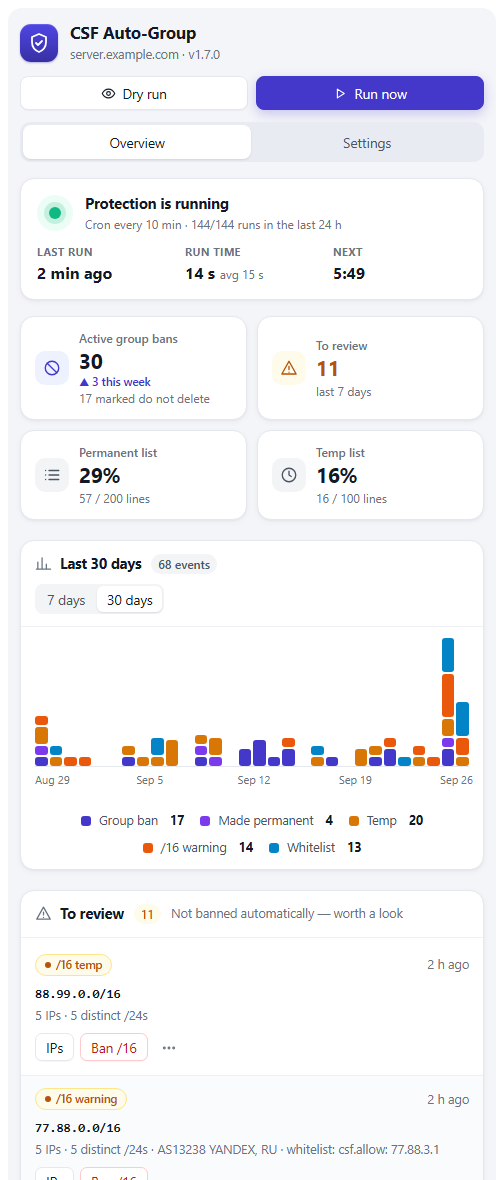
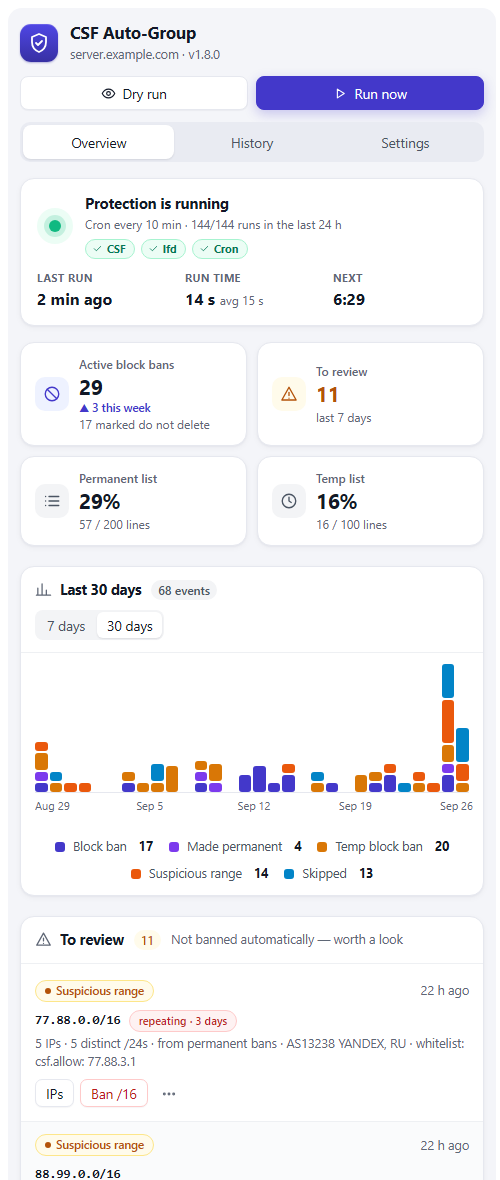
yeni özellikler, terim açıklaması (tekil · blok /24 · ağ /16 · sağlayıcı ASN) ve yeni ekran görüntüleri eklendi.

diff --git a/whm/assets/ag.js b/whm/assets/ag.js
@@ -97,7 +97,7 @@
       l_perm_cover: 'Kalıcı (blok)', l_temp: 'Geçici', l_nolookup: 'Sahip ve hostname sorguları kapalı (LOOKUP=0).',
       l_abuse: 'AbuseIPDB', l_bgp: 'bgp.he.net', l_copy: 'Kopyala', bad_ip: 'Geçerli bir IPv4 adresi yazın.',
       foot: 'CSF Auto-Group v{0} · {1} olarak oturum açıldı',
-      tab_overview: 'Genel bakış', tab_settings: 'Ayarlar', tab_history: 'Geçmiş', show_less: 'Daha az göster', s_cfglog: 'Ayar geçmişi', from_log: 'günlükten', sn_server: 'Sunucu', sn_server_h: 'CSF\'in liste sınırları ve eklentinin kullandığı araçlar.', st_deps: 'Sunucu gereksinimleri', st_deps_h: 'Eklentinin kullandığı araçlar ve eksik olduğunda ne olduğu.', dep_ok: 'Var', dep_missing: 'Yok', dep_warn: 'Eksik', dep_opt: 'isteğe bağlı', dep_csf: 'Güvenlik duvarı; banları o uygular.', dep_csf_x: 'Zorunlu: CSF olmadan hiçbir şey çalışmaz.', dep_crontab: 'Turları zamanında çalıştırır.', dep_crontab_x: 'Turlar otomatik çalışmaz; zamanlama Ayarlar\'dan değiştirilemez.', dep_mail: 'Uyarı mailleri ve haftalık özet.', dep_mail_x: 'Uyarı mailleri ve haftalık özet gönderilmez.', dep_dns: 'Sahip ve hostname sorguları.', dep_dns_x: 'Sahip ve hostname bilgisi olmaz; CC_IGNORE / CC_ALLOW ve csf.rignore kontrol edilemez, bu listelere dayanan bloklar banlanmaz.', dep_logrotate: 'Günlük dosyasını döndürür.', dep_logrotate_x: 'Günlük, satır sınırıyla kesilir (yedek yöntem).', dep_logrotate_w: 'Kurulu ama ayar dosyası yok; günlük şimdilik satır sınırıyla kesiliyor. update.sh ya da install.sh ile yeniden kurun.', dep_flock: 'Aynı anda tek tur çalışmasını sağlar.', dep_flock_x: 'Üst üste binen turlara karşı koruma olmaz.', dep_timeout: 'Eklentinin çalıştırdığı komutlara zaman sınırı koyar.', dep_timeout_x: 'Takılan bir komut sayfayı bekletebilir.', dep_git: 'Arayüzden güncelleme.', dep_git_x: 'Güncelleme kontrolü ve Güncelle düğmesi çalışmaz.', dep_imunify: 'Sağlayıcılar kartındaki Imunify sekmesi.', dep_imunify_x: 'Imunify sekmesi görünmez; başka etkisi yok.', k_logfile: 'Günlük dosyası', log_rot: 'logrotate: {2} MB\'ı geçince döndürülür, son {3} arşiv saklanır · şu an {0} · {1} arşiv.', k_LOG_ROTATE_MB: 'Günlük boyutu (MB)', h_LOG_ROTATE_MB: 'Günlük bu boyutu geçince döndürülür (logrotate günde bir kontrol eder).', k_LOG_ROTATE_KEEP: 'Arşiv sayısı', h_LOG_ROTATE_KEEP: 'Döndürülen günlüklerden kaç tanesi sıkıştırılarak saklanır.', log_lines: 'Şu an {0} / {1} satır.', no_cfglog: 'Henüz ayar değişikliği yok.', ev_config: 'Ayar değişti', ev_test_mail: 'Test maili',
+      tab_overview: 'Genel bakış', tab_settings: 'Ayarlar', tab_history: 'Geçmiş', show_less: 'Daha az göster', s_cfglog: 'Ayar geçmişi', c_expire: 'Eski blok banı', c_auto_on: 'otomatik kaldırılır', c_auto_off: 'elle kaldırılır', hc_csf: 'CSF', hc_lfd: 'lfd', hc_cron: 'Cron', hc_csf_ok: 'Güvenlik duvarı kuralları yüklü', hc_csf_off: 'CSF devre dışı (csf.disable)', hc_csf_testing: 'CSF test modunda (TESTING = 1)', hc_csf_norules: 'CSF kuralları yüklü değil', hc_csf_unknown: 'Durum okunamadı (iptables yok)', hc_lfd_ok: 'lfd çalışıyor', hc_lfd_down: 'lfd çalışmıyor: yeni ban gelmez', hc_cron_ok: 'Turlar zamanında çalışıyor', hc_cron_late: 'Tur gecikti', sb_fw: 'Güvenlik duvarında sorun var', f_old: 'Eski', old_h: '{0} blok banı {1} günden eski.', old_auto: 'Otomatik kaldırma açık; sıradaki turda kaldırılacaklar.', old_manual: 'Otomatik kaldırma kapalı (Ayarlar → Saklama).', old_rm: 'Eskileri kaldır ({0})', m_exp_t: '{0} eski blok banı kaldırılsın mı?', m_exp_b: '{1} günden eski {0} blok banı csf.deny\'den kaldırılır (do not delete olanlar da). Bu bloklardan tekrar saldırı gelirse yeniden banlanırlar. csf.deny önce yedeklenir.', ev_expire: 'Eski blok kaldırıldı', exp_age: '{0} gün önce eklenmişti', rep_n: 'tekrar ediyor · {0} gün', k_BLOCK_EXPIRE_DAYS: 'Eski blok banı sınırı (gün)', h_BLOCK_EXPIRE_DAYS: 'Bu süreden eski blok banları Aktif blok banları tablosunda "Eski" filtresinde toplanır.', k_BLOCK_EXPIRE_AUTO: 'Eski blok banlarını otomatik kaldır', h_BLOCK_EXPIRE_AUTO: 'Açıksa her turda bu süreden eski blok banları kaldırılır ve mailde bildirilir. Elle eklenen banlara dokunulmaz.', from_log: 'günlükten', sn_server: 'Sunucu', sn_server_h: 'CSF\'in liste sınırları ve eklentinin kullandığı araçlar.', st_deps: 'Sunucu gereksinimleri', st_deps_h: 'Eklentinin kullandığı araçlar ve eksik olduğunda ne olduğu.', dep_ok: 'Var', dep_missing: 'Yok', dep_warn: 'Eksik', dep_opt: 'isteğe bağlı', dep_csf: 'Güvenlik duvarı; banları o uygular.', dep_csf_x: 'Zorunlu: CSF olmadan hiçbir şey çalışmaz.', dep_crontab: 'Turları zamanında çalıştırır.', dep_crontab_x: 'Turlar otomatik çalışmaz; zamanlama Ayarlar\'dan değiştirilemez.', dep_mail: 'Uyarı mailleri ve haftalık özet.', dep_mail_x: 'Uyarı mailleri ve haftalık özet gönderilmez.', dep_dns: 'Sahip ve hostname sorguları.', dep_dns_x: 'Sahip ve hostname bilgisi olmaz; CC_IGNORE / CC_ALLOW ve csf.rignore kontrol edilemez, bu listelere dayanan bloklar banlanmaz.', dep_logrotate: 'Günlük dosyasını döndürür.', dep_logrotate_x: 'Günlük, satır sınırıyla kesilir (yedek yöntem).', dep_logrotate_w: 'Kurulu ama ayar dosyası yok; günlük şimdilik satır sınırıyla kesiliyor. update.sh ya da install.sh ile yeniden kurun.', dep_flock: 'Aynı anda tek tur çalışmasını sağlar.', dep_flock_x: 'Üst üste binen turlara karşı koruma olmaz.', dep_timeout: 'Eklentinin çalıştırdığı komutlara zaman sınırı koyar.', dep_timeout_x: 'Takılan bir komut sayfayı bekletebilir.', dep_git: 'Arayüzden güncelleme.', dep_git_x: 'Güncelleme kontrolü ve Güncelle düğmesi çalışmaz.', dep_imunify: 'Sağlayıcılar kartındaki Imunify sekmesi.', dep_imunify_x: 'Imunify sekmesi görünmez; başka etkisi yok.', k_logfile: 'Günlük dosyası', log_rot: 'logrotate: {2} MB\'ı geçince döndürülür, son {3} arşiv saklanır · şu an {0} · {1} arşiv.', k_LOG_ROTATE_MB: 'Günlük boyutu (MB)', h_LOG_ROTATE_MB: 'Günlük bu boyutu geçince döndürülür (logrotate günde bir kontrol eder).', k_LOG_ROTATE_KEEP: 'Arşiv sayısı', h_LOG_ROTATE_KEEP: 'Döndürülen günlüklerden kaç tanesi sıkıştırılarak saklanır.', log_lines: 'Şu an {0} / {1} satır.', no_cfglog: 'Henüz ayar değişikliği yok.', ev_config: 'Ayar değişti', ev_test_mail: 'Test maili',
       st_notify: 'Bildirim', st_mail: 'Uyarı maili adresi', st_mail_h: 'Blok banları, şüpheli ağ uyarıları ve limit mailleri buraya gider. root@localhost, cPanel\'de sunucunun iletişim adresine yönlenir.',
       st_lang: 'Dil', st_lang_h: 'Log, mail ve bu panelin dili.', st_test: 'Test maili gönder', st_test_h: 'Kayıtlı adrese gönderilir.',
       st_test_dirty: 'Önce yeni adresi kaydedin.', st_thr: 'Eşikler', st_thr_h: 'Kaç tekil ban bir işlemi tetikler.',
@@ -189,7 +189,7 @@
       l_perm_cover: 'Permanent (block)', l_temp: 'Temp', l_nolookup: 'Owner and hostname lookups are off (LOOKUP=0).',
       l_abuse: 'AbuseIPDB', l_bgp: 'bgp.he.net', l_copy: 'Copy', bad_ip: 'Enter a valid IPv4 address.',
       foot: 'CSF Auto-Group v{0} · signed in as {1}',
-      tab_overview: 'Overview', tab_settings: 'Settings', tab_history: 'History', show_less: 'Show less', s_cfglog: 'Settings history', from_log: 'from the log', sn_server: 'Server', sn_server_h: 'CSF\'s list limits and the tools the plugin uses.', st_deps: 'Server requirements', st_deps_h: 'Tools the plugin uses and what happens when one is missing.', dep_ok: 'Found', dep_missing: 'Missing', dep_warn: 'Incomplete', dep_opt: 'optional', dep_csf: 'The firewall; it applies the bans.', dep_csf_x: 'Required: nothing works without CSF.', dep_crontab: 'Runs the job on schedule.', dep_crontab_x: 'Runs don\'t happen automatically; the schedule can\'t be changed from Settings.', dep_mail: 'Alert emails and the weekly summary.', dep_mail_x: 'No alert emails or weekly summary are sent.', dep_dns: 'Owner and hostname lookups.', dep_dns_x: 'No owner or hostname info; CC_IGNORE / CC_ALLOW and csf.rignore can\'t be checked, so blocks relying on them aren\'t banned.', dep_logrotate: 'Rotates the log file.', dep_logrotate_x: 'The log is trimmed by a line limit instead (fallback).', dep_logrotate_w: 'Installed, but our config file is missing; the log is trimmed by the line limit for now. Re-run update.sh or install.sh.', dep_flock: 'Makes sure only one run happens at a time.', dep_flock_x: 'No protection against overlapping runs.', dep_timeout: 'Puts a time limit on commands the plugin runs.', dep_timeout_x: 'A stuck command can keep the page waiting.', dep_git: 'Updating from the plugin.', dep_git_x: 'The update check and the Update button don\'t work.', dep_imunify: 'The Imunify tab in the providers card.', dep_imunify_x: 'The Imunify tab is hidden; nothing else is affected.', k_logfile: 'Log file', log_rot: 'logrotate: rotated past {2} MB, the last {3} archives are kept · now {0} · {1} archives.', k_LOG_ROTATE_MB: 'Log size (MB)', h_LOG_ROTATE_MB: 'The log is rotated once it grows past this size (logrotate checks daily).', k_LOG_ROTATE_KEEP: 'Archives kept', h_LOG_ROTATE_KEEP: 'How many rotated logs are kept, compressed.', log_lines: 'Now {0} / {1} lines.', no_cfglog: 'No settings changes yet.', ev_config: 'Settings changed', ev_test_mail: 'Test email',
+      tab_overview: 'Overview', tab_settings: 'Settings', tab_history: 'History', show_less: 'Show less', s_cfglog: 'Settings history', c_expire: 'Old block bans', c_auto_on: 'removed automatically', c_auto_off: 'removed manually', hc_csf: 'CSF', hc_lfd: 'lfd', hc_cron: 'Cron', hc_csf_ok: 'Firewall rules are loaded', hc_csf_off: 'CSF is disabled (csf.disable)', hc_csf_testing: 'CSF is in testing mode (TESTING = 1)', hc_csf_norules: 'CSF rules are not loaded', hc_csf_unknown: 'Status unknown (no iptables)', hc_lfd_ok: 'lfd is running', hc_lfd_down: 'lfd is not running: no new bans will arrive', hc_cron_ok: 'Runs happen on schedule', hc_cron_late: 'A run is overdue', sb_fw: 'There is a problem with the firewall', f_old: 'Old', old_h: '{0} block bans are older than {1} days.', old_auto: 'Automatic removal is on; they will be removed on the next run.', old_manual: 'Automatic removal is off (Settings → Retention).', old_rm: 'Remove old ones ({0})', m_exp_t: 'Remove {0} old block bans?', m_exp_b: '{0} block bans older than {1} days are removed from csf.deny (do not delete ones too). If attacks come from them again they are banned again. csf.deny is backed up first.', ev_expire: 'Old block removed', exp_age: 'added {0} days ago', rep_n: 'repeating · {0} days', k_BLOCK_EXPIRE_DAYS: 'Old block ban limit (days)', h_BLOCK_EXPIRE_DAYS: 'Block bans older than this are grouped under the "Old" filter in the active block bans table.', k_BLOCK_EXPIRE_AUTO: 'Remove old block bans automatically', h_BLOCK_EXPIRE_AUTO: 'When on, block bans older than this are removed on every run and reported by email. Manual bans are left alone.', from_log: 'from the log', sn_server: 'Server', sn_server_h: 'CSF\'s list limits and the tools the plugin uses.', st_deps: 'Server requirements', st_deps_h: 'Tools the plugin uses and what happens when one is missing.', dep_ok: 'Found', dep_missing: 'Missing', dep_warn: 'Incomplete', dep_opt: 'optional', dep_csf: 'The firewall; it applies the bans.', dep_csf_x: 'Required: nothing works without CSF.', dep_crontab: 'Runs the job on schedule.', dep_crontab_x: 'Runs don\'t happen automatically; the schedule can\'t be changed from Settings.', dep_mail: 'Alert emails and the weekly summary.', dep_mail_x: 'No alert emails or weekly summary are sent.', dep_dns: 'Owner and hostname lookups.', dep_dns_x: 'No owner or hostname info; CC_IGNORE / CC_ALLOW and csf.rignore can\'t be checked, so blocks relying on them aren\'t banned.', dep_logrotate: 'Rotates the log file.', dep_logrotate_x: 'The log is trimmed by a line limit instead (fallback).', dep_logrotate_w: 'Installed, but our config file is missing; the log is trimmed by the line limit for now. Re-run update.sh or install.sh.', dep_flock: 'Makes sure only one run happens at a time.', dep_flock_x: 'No protection against overlapping runs.', dep_timeout: 'Puts a time limit on commands the plugin runs.', dep_timeout_x: 'A stuck command can keep the page waiting.', dep_git: 'Updating from the plugin.', dep_git_x: 'The update check and the Update button don\'t work.', dep_imunify: 'The Imunify tab in the providers card.', dep_imunify_x: 'The Imunify tab is hidden; nothing else is affected.', k_logfile: 'Log file', log_rot: 'logrotate: rotated past {2} MB, the last {3} archives are kept · now {0} · {1} archives.', k_LOG_ROTATE_MB: 'Log size (MB)', h_LOG_ROTATE_MB: 'The log is rotated once it grows past this size (logrotate checks daily).', k_LOG_ROTATE_KEEP: 'Archives kept', h_LOG_ROTATE_KEEP: 'How many rotated logs are kept, compressed.', log_lines: 'Now {0} / {1} lines.', no_cfglog: 'No settings changes yet.', ev_config: 'Settings changed', ev_test_mail: 'Test email',
       st_notify: 'Notifications', st_mail: 'Alert email address', st_mail_h: 'Block bans, suspicious range warnings and limit emails go here. On cPanel, root@localhost is forwarded to the server contact address.',
       st_lang: 'Language', st_lang_h: 'Language of the log, emails and this panel.', st_test: 'Send test email', st_test_h: 'Sent to the saved address.',
       st_test_dirty: 'Save the new address first.', st_thr: 'Thresholds', st_thr_h: 'How many single bans trigger an action.',
@@ -387,14 +387,24 @@
     left = Math.max(0, left);
     return Math.floor(left / 60) + ':' + ('0' + (left % 60)).slice(-2);
   }
+  function healthChips(HL, late) {
+    function chip(name, cls, tip) { return '<span class="ag-hc ' + cls + '" title="' + esc(tip) + '">' + (cls === 'ok' ? IC.check : IC.alert) + esc(name) + '</span>'; }
+    var c = HL.csf || 'unknown', l = HL.lfd || 'down';
+    return '<div class="ag-hchips">' +
+      chip(t('hc_csf'), c === 'ok' ? 'ok' : c === 'testing' || c === 'unknown' ? 'warn' : 'bad', t('hc_csf_' + c)) +
+      chip(t('hc_lfd'), l === 'ok' ? 'ok' : 'bad', t('hc_lfd_' + l)) +
+      chip(t('hc_cron'), late ? 'bad' : 'ok', t(late ? 'hc_cron_late' : 'hc_cron_ok')) + '</div>';
+  }
   function statusBand() {
     var lr = S.last_run, run = S.running, late = !run && overdue(), iv = S.cron_interval || 0;
     var R = S.runs || {}, L = R.list || [], ds = L.map(function (x) { return x[1] || 0; });
     var avg = ds.length ? Math.round(ds.reduce(function (a, b) { return a + b; }, 0) / ds.length) : 0;
     var exp = iv > 0 && R.first ? Math.max(1, Math.round(Math.min(86400, nowSec() - R.first) / iv)) : 0;
     exp = Math.max(exp, R.n24 || 0);
-    var st = run ? 'run' : late ? 'bad' : 'ok';
-    var sub = late ? t('overdue', lr ? rel(lr.t) : '?', dur(iv))
+    var HL = S.health || {}, fwBad = HL.lfd === 'down' || HL.csf === 'off' || HL.csf === 'norules';
+    var st = run ? 'run' : (late || fwBad) ? 'bad' : 'ok';
+    var sub = fwBad && !run ? [HL.csf !== 'ok' && HL.csf !== 'unknown' ? t('hc_csf_' + HL.csf) : '', HL.lfd === 'down' ? t('hc_lfd_down') : ''].filter(Boolean).join(' · ')
+      : late ? t('overdue', lr ? rel(lr.t) : '?', dur(iv))
       : !lr ? t('sb_none') : [iv ? t('sb_every', dur(iv)) : '', exp ? t('sb_24', num(R.n24 || 0), num(exp)) : ''].filter(Boolean).join(' · ');
     var sorted = ds.slice().sort(function (a, b) { return a - b; }), med = sorted.length ? sorted[Math.floor(sorted.length / 2)] : 0;
     var mx = Math.max.apply(null, ds.concat([1]));
@@ -406,7 +416,7 @@
       return '<div class="ag-band-m"><small>' + label + '</small><b' + (id ? ' id="' + id + '"' : '') + '>' + big + '</b>' + (small ? '<span>' + small + '</span>' : '') + '</div>';
     }
     return '<section class="ag-band st-' + st + '"><div class="ag-band-s"><span class="ag-pulse"><i></i></span><div><b>' +
-      t(run ? 'sb_run' : late ? 'sb_late' : 'sb_ok') + '</b><span>' + esc(sub) + '</span></div></div>' +
+      t(run ? 'sb_run' : fwBad ? 'sb_fw' : late ? 'sb_late' : 'sb_ok') + '</b><span>' + esc(sub) + '</span>' + healthChips(HL, late) + '</div></div>' +
       m(t('sb_last'), lr ? esc(rel(lr.t)) : '—') +
       m(t('sb_dur'), ds.length ? esc(sec(ds[ds.length - 1])) : '—', ds.length > 1 ? esc(t('sb_avg', sec(avg))) : '') +
       m(t('sb_next'), run ? t('sb_now') : (nextIn() || '—'), '', 'ag-next') +
@@ -524,7 +534,9 @@
     if (!S.review.length) {
       return '<div class="ag-okbar">' + IC.check + '<b>' + t('no_review') + '</b><span>' + t('k_review_m', num(S.config.review_days)) + '</span></div>';
     }
-    var items = S.review.slice().sort(function (a, b) { return b.t - a.t; }).map(function (e) {
+    var RM = S.repeat_min || 3;
+    function repOf(e) { return (e.rep || 0) >= RM ? 1 : 0; }
+    var items = S.review.slice().sort(function (a, b) { return (repOf(b) - repOf(a)) || (b.t - a.t); }).map(function (e) {
       var key = 'r:' + e.cidr, open = UI.open[key], is16 = /\/16$/.test(e.cidr), hasIps = e.ips && e.ips.length;
       var pill = e.type === 'skip_wl' ? '<span class="ag-pill ag-pill-info">' + t('ev_skip_wl') + '</span>'
         : '<span class="ag-pill ag-pill-warn">' + esc(t('ev_' + e.type)) + '</span>';
@@ -545,7 +557,8 @@
       acts += menu('rm:' + e.cidr, [{ act: 'ignore', label: t('ignore'), icon: 'mute', attrs: 'data-c="' + esc(e.cidr) + '"' },
                                     { act: 'ipcard', label: t('ipcard'), icon: 'search', attrs: 'data-ip="' + esc(first) + '"' }]);
       return '<div class="ag-item" data-row="' + esc(e.cidr) + '"><div class="ag-row">' + pill +
-        '<div class="ag-row-main"><div class="ag-row-t">' + newDot(e.hist ? 0 : e.t) + '<span class="ag-cidr" data-ip="' + esc(first) + '">' + esc(e.cidr) + '</span></div>' +
+        '<div class="ag-row-main"><div class="ag-row-t">' + newDot(e.hist ? 0 : e.t) + '<span class="ag-cidr" data-ip="' + esc(first) + '">' + esc(e.cidr) + '</span>' +
+        (repOf(e) ? '<span class="ag-pill ag-pill-bad ag-rep">' + esc(t('rep_n', num(e.rep))) + '</span>' : '') + '</div>' +
         '<div class="ag-row-s">' + meta.join(' · ') + '</div></div>' +
         '<div class="ag-row-x">' + (e.hist ? esc(e.day.slice(8, 10) + '.' + e.day.slice(5, 7)) : rel(e.t)) + '</div><div class="ag-row-a">' + acts + '</div></div>' +
         (open ? ipTable(e.ips, e.total) : '') + '</div>';
@@ -558,11 +571,16 @@
 
   /* Aktif grup banları: sıralanabilir, sayfalı tablo */
   var PAGE = 10;       // iki tablo da (gruplar, izlenenler) aynı sayfa boyunda
+  function isOld(g) {           // otomatik eklenmiş ve "eski" gün sınırını geçmiş blok banı
+    var d = (S.expire && S.expire.days) || 365;
+    return (g.kind === 'perm' || g.kind === 'promoted') && g.added > 0 && nowSec() - g.added >= d * 86400;
+  }
   function kindMatch(g, f) {
     if (f === 'perm') return g.kind === 'perm' || g.kind === 'promoted';
     if (f === 'dnd') return g.dnd;
     if (f === 'temp') return g.kind === 'temp';
     if (f === 'manual') return g.kind === 'manual';
+    if (f === 'old') return isOld(g);
     return true;
   }
   function groupMatches(g) {
@@ -622,12 +640,19 @@
     return '<div class="ag-thead">' + th('cidr', t('col_block'), 'ag-td-main') + th('kind', t('col_state')) + th('owner', t('col_owner'), 'ag-td-own') +
       th('n', t('col_singles'), 'ag-num-c ag-th-r') + th('added', t('col_added'), 'ag-when') + '<span></span></div>' + rows + pager;
   }
+  function oldBar() {
+    if (UI.gf !== 'old') return '';
+    var n = S.groups.filter(isOld).length, E = S.expire || {};
+    if (!n) return '';
+    return '<div class="ag-oldbar">' + IC.hour + '<span>' + esc(t('old_h', num(n), num(E.days || 365))) + ' ' + esc(t(E.auto ? 'old_auto' : 'old_manual')) + '</span>' +
+      '<button class="ag-btn ag-btn-sm ag-btn-danger" data-act="expireall" data-n="' + n + '">' + t('old_rm', num(n)) + '</button></div>';
+  }
   function groupCount() {
     var n = S.groups.filter(groupMatches).length;
     return n === S.groups.length ? num(n) : num(n) + ' / ' + num(S.groups.length);
   }
   function groups() {
-    var chips = ['all', 'perm', 'dnd', 'temp', 'manual'].map(function (f) {
+    var chips = ['all', 'perm', 'dnd', 'temp', 'manual', 'old'].map(function (f) {
       var n = S.groups.filter(function (g) { return kindMatch(g, f); }).length;
       return '<button class="ag-chip' + (UI.gf === f ? ' on' : '') + (n ? '' : ' zero') + '" data-act="gf" data-f="' + f + '">' + t('f_' + f) +
         '<span class="ag-chip-n">' + num(n) + '</span></button>';
@@ -635,7 +660,7 @@
     return '<section class="ag-card"><div class="ag-card-h"><h2>' + IC.ban + t('s_groups') + '</h2>' +
       '<span class="ag-count" id="ag-gcount">' + groupCount() + '</span><div class="ag-tools"><div class="ag-chips">' + chips + '</div>' +
       '<input class="ag-input" id="ag-gq" type="search" placeholder="' + esc(t('g_search')) + '" value="' + esc(UI.gq) + '" style="width:180px"></div></div>' +
-      '<div class="ag-card-b ag-tbl" id="ag-groups-b">' + groupRows() + '</div></section>';
+      oldBar() + '<div class="ag-card-b ag-tbl" id="ag-groups-b">' + groupRows() + '</div></section>';
   }
 
   var EV_CLASS = {
@@ -645,7 +670,7 @@
   };
   var EV_GROUP = {
     bans: ['add24', 'promote', 'temp24', 'manual_ban'], warn: ['warn16', 'warn16t'], skip: ['skip_wl'],
-    manual: ['manual_ban', 'manual_unban', 'manual_forget', 'manual_ignore', 'manual_unignore'], clean: ['clean_temp']
+    manual: ['manual_ban', 'manual_unban', 'manual_forget', 'manual_ignore', 'manual_unignore'], clean: ['clean_temp', 'expire']
   };
   function evDetail(e) {
     var d = [];
@@ -662,11 +687,12 @@
     if (e.by) d.push(t('by', e.by));
     if (e.src === 'log') d.push(t('from_log'));
     if (e.until) d.push(t('until', e.until));
+    if (e.type === 'expire' && e.age != null) d.push(t('exp_age', num(e.age)));
     return esc(d.join(' · '));
   }
   var EV_ICON = {
     add24: ['ban', 'acc'], manual_ban: ['ban', 'bad'], promote: ['lock', 'vio'], temp24: ['clock', 'warn'], warn16: ['alert', 'warn'], warn16t: ['alert', 'warn'],
-    skip_wl: ['check', 'info'], clean_temp: ['x', 'n'], config: ['sliders', 'acc'], test_mail: ['inbox', 'n'], digest: ['inbox', 'n']
+    skip_wl: ['check', 'info'], clean_temp: ['x', 'n'], expire: ['hour', 'n'], config: ['sliders', 'acc'], test_mail: ['inbox', 'n'], digest: ['inbox', 'n']
   };
   /* Geçmiş sekmesi: eklentinin işleri · Ayarlar sekmesi (cfg): ayar değişiklikleri, test maili, özet */
   var CFG_TYPES = ['config', 'test_mail', 'digest'];
@@ -834,13 +860,14 @@
       '<div class="ag-tools"><button class="ag-link" data-act="tab" data-tab="settings">' + t('edit') + '</button></div></div><div class="ag-rules">' +
       kv(t('c_t24'), t('c_singles', c.t24)) + kv(t('c_t24p'), t('c_singles', c.t24p)) + kv(t('c_t16'), t('c_singles', c.t16)) +
       kv(t('c_tt24'), t('c_singles', c.tt24)) + kv(t('c_tt16'), t('c_singles', c.tt16)) + kv(t('c_ret'), t('c_days', c.retention)) +
-      '</div><div class="ag-rules-f">' + esc(t('c_lookup')) + ': <b>' + (c.lookup ? t('c_on') : t('c_off')) + '</b></div></section>';
+      '</div><div class="ag-rules-f">' + esc(t('c_lookup')) + ': <b>' + (c.lookup ? t('c_on') : t('c_off')) + '</b>' +
+      (S.expire ? ' · ' + esc(t('c_expire')) + ': <b>' + esc(t('c_days', num(S.expire.days))) + ', ' + (S.expire.auto ? t('c_auto_on') : t('c_auto_off')) + '</b>' : '') + '</div></section>';
   }
 
   /* ── Ayarlar sekmesi ───────────────────────────────────────────── */
   var RANGES = {
     THRESHOLD_24: [2, 50], THRESHOLD_24_PERMANENT: [2, 100], THRESHOLD_16: [2, 500], THRESHOLD_TEMP_24: [2, 50],
-    THRESHOLD_TEMP_16: [2, 500], LOOKUP_TIMEOUT: [1, 10], SAYAC_RETENTION_DAYS: [7, 730], REVIEW_DAYS: [1, 90], LOG_ROTATE_MB: [1, 100], LOG_ROTATE_KEEP: [1, 52], LOG_MAX_LINES: [500, 100000]
+    THRESHOLD_TEMP_16: [2, 500], LOOKUP_TIMEOUT: [1, 10], SAYAC_RETENTION_DAYS: [7, 730], REVIEW_DAYS: [1, 90], BLOCK_EXPIRE_DAYS: [30, 3650], LOG_ROTATE_MB: [1, 100], LOG_ROTATE_KEEP: [1, 52], LOG_MAX_LINES: [500, 100000]
   };
   var TRY_KEYS = ['THRESHOLD_24', 'THRESHOLD_24_PERMANENT', 'THRESHOLD_16', 'THRESHOLD_TEMP_24', 'THRESHOLD_TEMP_16', 'LOOKUP', 'LOOKUP_TIMEOUT', 'SAYAC_RETENTION_DAYS', 'REVIEW_DAYS'];
   function cv(k) { return DRAFT[k] !== undefined ? DRAFT[k] : (CFG ? CFG.values[k] : ''); }
@@ -915,6 +942,9 @@
       '<div class="ag-field-h">' + (CFG.dns_tool ? t('h_LOOKUP') : '<span style="color:var(--ag-warn)">' + t('st_nodns') + '</span>') + '</div></div>' + field('LOOKUP_TIMEOUT', errs);
     var LG = CFG.log || {}, rot = !!LG.rotate;
     var keep = (rot ? ['SAYAC_RETENTION_DAYS', 'REVIEW_DAYS', 'LOG_ROTATE_MB', 'LOG_ROTATE_KEEP'] : ['SAYAC_RETENTION_DAYS', 'REVIEW_DAYS', 'LOG_MAX_LINES']).map(function (k) { return field(k, errs); }).join('') +
+      field('BLOCK_EXPIRE_DAYS', errs) +
+      '<div class="ag-field"><div class="ag-field-l"><label>' + t('k_BLOCK_EXPIRE_AUTO') + '</label></div>' + seg('BLOCK_EXPIRE_AUTO', [['1', t('on')], ['0', t('off')]]) +
+      '<div class="ag-field-h">' + t('h_BLOCK_EXPIRE_AUTO') + '</div></div>' +
       '<div class="ag-field"><div class="ag-field-l"><label>' + t('k_logfile') + '</label></div><div class="ag-loginfo">' +
       (rot ? t('log_rot', esc(bytes(LG.bytes)), num(LG.archives), num(CFG.values.LOG_ROTATE_MB || 1), num(CFG.values.LOG_ROTATE_KEEP || 5)) : t('log_lines', num(LG.lines), num(cv('LOG_MAX_LINES')))) + '</div></div>';
     var csf = '<dl class="ag-kv" style="padding:0">' +
@@ -944,7 +974,7 @@
       { k: 'thr', icon: 'sliders', label: t('st_thr'), keys: ['THRESHOLD_24', 'THRESHOLD_24_PERMANENT', 'THRESHOLD_16', 'THRESHOLD_TEMP_24', 'THRESHOLD_TEMP_16'] },
       { k: 'sched', icon: 'clock', label: t('st_sched'), keys: ['CRON_MIN'] },
       { k: 'look', icon: 'search', label: t('st_lookup'), keys: ['LOOKUP', 'LOOKUP_TIMEOUT'] },
-      { k: 'keep', icon: 'hour', label: t('st_keep'), keys: ['SAYAC_RETENTION_DAYS', 'REVIEW_DAYS', 'LOG_ROTATE_MB', 'LOG_ROTATE_KEEP', 'LOG_MAX_LINES'] },
+      { k: 'keep', icon: 'hour', label: t('st_keep'), keys: ['SAYAC_RETENTION_DAYS', 'REVIEW_DAYS', 'BLOCK_EXPIRE_DAYS', 'BLOCK_EXPIRE_AUTO', 'LOG_ROTATE_MB', 'LOG_ROTATE_KEEP', 'LOG_MAX_LINES'] },
       { k: 'server', icon: 'shield', label: t('sn_server'), keys: [] },
       { k: 'hist', icon: 'list', label: t('s_cfglog'), keys: [] }
     ];
@@ -1172,6 +1202,12 @@
     ppage: function (el) { UI.pp = Math.max(0, UI.pp + (+el.getAttribute('data-d'))); render(); },
     at: function (el) { UI.at = el.getAttribute('data-t'); render(); },
     st: function (el) { UI.st = el.getAttribute('data-s'); render(); window.scrollTo(0, 0); },
+    expireall: function (el) {
+      var n = +el.getAttribute('data-n'), d = String((S.expire && S.expire.days) || 365);
+      modal({ icon: 'alert', tone: 'bad', title: t('m_exp_t', num(n)), html: '<p>' + esc(t('m_exp_b', num(n), d)) + '</p>',
+        typed: String(n), okText: t('old_rm', num(n)), okClass: 'ag-btn-danger-solid' })
+        .then(function (m) { if (m.ok) doAction('expire', d); });
+    },
     asnall: function () { UI.asnAll = !UI.asnAll; render(); },
     ef: function (el) { UI.ef = el.getAttribute('data-f'); UI.evLimit = 40; render(); },
     cd: function (el) { UI.cd = +el.getAttribute('data-d'); render(); },

diff --git a/whm/assets/ag.css b/whm/assets/ag.css
@@ -589,3 +589,16 @@
   .ag-setform .ag-field > :not(.ag-field-l):not(.ag-field-h) { margin-top: 8px; justify-self: start; max-width: 100%; }
 }
 .ag-ev-x { flex: none; display: flex; align-items: center; font-size: 12px; }
+
+/* durum bandı: CSF · lfd · Cron */
+.ag-hchips { display: flex; gap: 6px; margin-top: 6px; flex-wrap: wrap; }
+.ag-hc { display: inline-flex; align-items: center; gap: 4px; height: 20px; padding: 0 8px 0 6px; border-radius: 20px; font-size: 11px; font-weight: 650; border: 1px solid transparent; }
+.ag-hc svg { width: 11px; height: 11px; }
+.ag-hc.ok { background: var(--ag-ok-soft); color: var(--ag-ok); border-color: var(--ag-ok-line); }
+.ag-hc.warn { background: var(--ag-warn-soft); color: var(--ag-warn); border-color: var(--ag-warn-line); }
+.ag-hc.bad { background: var(--ag-bad-soft); color: var(--ag-bad); border-color: var(--ag-bad-line); }
+/* eski blok banları çubuğu */
+.ag-oldbar { display: flex; align-items: center; gap: 10px; padding: 10px 18px; background: var(--ag-warn-soft); border-bottom: 1px solid var(--ag-warn-line); color: var(--ag-warn); font-size: 12.5px; font-weight: 550; flex-wrap: wrap; }
+.ag-oldbar svg { width: 16px; height: 16px; flex: none; }
+.ag-oldbar span { flex: 1; min-width: 200px; }
+.ag-rep { font-size: 11px; }

diff --git a/whm/api.php b/whm/api.php
@@ -79,6 +79,7 @@ switch ($a) {
         $re = [
             'ban16' => AG_RE_16, 'ban24' => AG_RE_24, 'forget' => AG_RE_24,
             'unban' => AG_RE_CIDR, 'ignore' => AG_RE_CIDR, 'unignore' => AG_RE_CIDR,
+            'expire' => '/^[0-9]{2,4}$/',          // hedef: arayüzün gördüğü "eski" gün sayısı
         ];
         if (!isset($re[$name]) || !ag_valid($re[$name], $target)) {
             ag_json(['ok' => false, 'code' => 2, 'message' => 'bad_target']);
@@ -119,7 +120,7 @@ switch ($a) {
     case 'config_set':
         // Anahtar listesi ve kaba karakter süzgeci burada; asıl doğrulama script'te (cfg_check).
         $keys = ['MSG_LANG', 'ALERT_MAIL', 'DIGEST', 'DIGEST_DAY', 'THRESHOLD_24', 'THRESHOLD_24_PERMANENT', 'THRESHOLD_16', 'THRESHOLD_TEMP_24',
-                 'THRESHOLD_TEMP_16', 'LOOKUP', 'LOOKUP_TIMEOUT', 'SAYAC_RETENTION_DAYS', 'REVIEW_DAYS', 'LOG_MAX_LINES', 'LOG_ROTATE_MB', 'LOG_ROTATE_KEEP', 'CRON_MIN'];
+                 'THRESHOLD_TEMP_16', 'LOOKUP', 'LOOKUP_TIMEOUT', 'SAYAC_RETENTION_DAYS', 'REVIEW_DAYS', 'LOG_MAX_LINES', 'LOG_ROTATE_MB', 'LOG_ROTATE_KEEP', 'BLOCK_EXPIRE_DAYS', 'BLOCK_EXPIRE_AUTO', 'CRON_MIN'];
         $args = ['--config', 'set'];
         foreach ((array) ($_POST['v'] ?? []) as $k => $v) {
             $v = trim((string) $v);

diff --git a/README.md b/README.md
@@ -19,12 +19,20 @@ is escalated to a **permanent** ban. `/16` ranges are only flagged for review
   country) and hostname, in the page and in alert emails.
 - **Safe by default** — never bans a range that touches any CSF whitelist, and
   every manual action asks for confirmation.
+- **One email per run** — everything a run did (block bans, suspicious
+  ranges, skips, limit and firewall alerts) arrives in a single email.
+- **Watches the firewall itself** — shows whether CSF and lfd are working and
+  emails once a day if one of them stops.
 - **English / Türkçe** — the plugin, logs and emails.
 - **Works on phones** — the page adapts to small screens.
 
-**Version 1.7.10** · root-only WHM plugin on cPanel servers. On servers without
+**Version 1.8.0** · root-only WHM plugin on cPanel servers. On servers without
 cPanel the same engine runs from cron and the command line
 ([details](#without-cpanel)).
+
+**Terms used everywhere** (plugin, emails, log): a *single* is one banned IP, a
+*block* is a `/24` (banned automatically), a *range* is a `/16` (never banned,
+only flagged as *suspicious*), a *provider* is an ASN.
 
 ---
 
@@ -77,18 +85,23 @@ settings, with no prompts. `config.env` is left untouched.
 ### Overview
 
 - **Status** — whether protection is running, when the last run was and how long
-  it took, a countdown to the next run and the durations of the last 36 runs.
-  Turns red when cron has stopped.
-- **Summary cards** — active group bans (with this week's change), items to
+  it took, a countdown to the next run and the durations of the last 36 runs,
+  plus three markers: **CSF** (rules loaded, not disabled, not in testing mode),
+  **lfd** (running) and **Cron** (runs on time). Turns red when any of them has
+  a problem.
+- **Summary cards** — active block bans (with this week's change), items to
   review, and how full CSF's permanent and temp lists are.
-- **Activity** — a daily chart of group bans, blocks made permanent, temp groups,
-  `/16` warnings and whitelist skips over the last 7 or 30 days. Hover a day for
-  its breakdown.
-- **To review** — `/16` warnings and whitelist-skipped `/24`s from the last 7
-  days, with every IP's hostname, owner and ban reason.
-- **Active group bans** — a sortable, paged table with each block's owner,
+- **Activity** — a daily chart of block bans, blocks made permanent, temp block
+  bans, suspicious ranges and whitelist skips over the last 7 or 30 days. Hover
+  a day for its breakdown.
+- **To review** — suspicious ranges and whitelist-skipped blocks from the last 7
+  days, with every IP's hostname, owner and ban reason. A range flagged on 3 or
+  more separate days is marked *repeating* and moves to the top.
+- **Active block bans** — a sortable, paged table with each block's owner,
   searchable by CIDR, AS number or organisation. Filters show their counts.
-  Blocks that became permanent on a second attack are tagged *repeat*.
+  Blocks that became permanent on a second attack are tagged *repeat*. The
+  *Old* filter lists block bans older than the old-block limit (default 365
+  days), with a button to remove them all.
 - **Watched** — `/24`s that were temp-banned once. If one comes back, it becomes
   permanent + `do not delete`. Sorted by days left.
 - **History** (its own tab) — every ban, promotion, skip, warning and manual
@@ -98,11 +111,11 @@ settings, with no prompts. `config.env` is left untouched.
   registry, whether CSF blocks it and which list whitelists it, with links to
   bgp.he.net and AbuseIPDB. Recently viewed IPs stay one click away.
 - **Top attacking providers** (by ASN) — three tabs:
-  - *Attackers* — ranked by group bans and single bans. A network with 5+ group
+  - *Attackers* — ranked by block bans and single bans. A provider with 5+ block
     bans gets a suggestion explaining how to block the whole ASN with CSF's own
     `CC_DENY`. The plugin never edits `csf.conf`.
   - *Other blocks* — ranges in `csf.deny` added outside CSF Auto-Group.
-  - *Imunify* (only with Imunify360) — networks in Imunify360's **own** block
+  - *Imunify* (only with Imunify360) — providers in Imunify360's **own** block
     list on this server, with the block reasons. Read-only.
 - **Since your last visit** — what happened since you last opened the page; new
   rows carry a dot.
@@ -118,7 +131,8 @@ whitelist, removing a `do not delete` block) make you type the target.
 | Ban anyway | ban a whitelist-skipped `/24` (overrides the whitelist) |
 | Make permanent | make a watched `/24` permanent right away |
 | Stop watching | forget a watched `/24` (next attack counts as the first) |
-| Remove | lift a group ban (`do not delete` blocks too; `csf.deny` is backed up first) |
+| Remove | lift a block ban (`do not delete` blocks too; `csf.deny` is backed up first) |
+| Remove old ones | on the *Old* filter: remove every block ban older than the old-block limit |
 | Ignore | hide an item from review for 7/30/90 days (stops `/16` warning emails too) |
 | Details | for warnings older than the event log: that day's IPs and reasons from the lfd log |
 | Dry run | show what a run would do; changes nothing, sends nothing |
@@ -134,13 +148,15 @@ history):
 
 - **Notifications** — alert email (with *Send test email*), language, and the
   **weekly summary**: new block bans, top attacking providers, watched blocks about to
-  expire, list usage and run count. Sent with the first run after 09:00 on the
-  chosen day (default Monday).
-- **Thresholds** — `/24` ban, `do not delete`, `/16` warning, temp `/24` and temp
-  `/16`.
+  expire, list usage, run count, and a note when a new version is available.
+  Sent with the first run after 09:00 on the chosen day (default Monday).
+- **Thresholds** — block ban (`/24`), `do not delete`, suspicious range (`/16`),
+  temp block ban (`/24`) and suspicious range from temp bans (`/16`).
 - **Schedule** — cron every 5 / 10 / 15 / 30 minutes or hourly.
 - **Lookups** — owner/hostname lookups on or off, DNS timeout.
-- **Retention** — watch period, review days, log size and archive count. The
+- **Retention** — watch period, review days, old-block limit (default 365 days)
+  and whether old block bans are removed automatically (default off; manual bans
+  are never touched), log size and archive count. The
   log is rotated by the system's logrotate (`/etc/logrotate.d/csf_autogroup`,
   written from these settings; default 1 MB, 5 compressed archives); where
   logrotate is missing, a log line limit is used instead. A run where
@@ -164,11 +180,13 @@ range that comes back turns into a permanent one.
 |--------|--------|
 | `/24` with **≥3** permanent single bans | permanently ban the `/24`, remove the singles |
 | `/24` with **≥5** permanent singles | ban `/24` + `do not delete` |
-| `/16` with **≥5** singles across **≥2** `/24`s | warn by email (once/day), no auto-ban |
+| `/16` with **≥5** singles across **≥2** `/24`s | flag as suspicious range by email (once/day), no auto-ban |
 | `/24` with **≥3** temp bans (first time) | temp-ban the `/24` for 12h, watch it |
 | same `/24` seen again | permanent ban + `do not delete` |
-| temp `/16` with **≥5** singles / **≥2** `/24`s | warn by email (once/day) |
-| deny list **≥80%** of its limit | email alert |
+| temp `/16` with **≥5** singles / **≥2** `/24`s | flag as suspicious range by email (once/day) |
+| deny list **≥80%** of its limit | email alert (once/day) |
+| CSF disabled / in testing mode / rules not loaded, or lfd not running | email alert (once/day) |
+| block ban older than the old-block limit (optional) | remove it |
 
 Temp bans already covered by a permanent block are cleared, watch records expire
 after 180 days (configurable), and the log is capped. Singles marked
@@ -178,8 +196,11 @@ keeps `csf.deny` from overflowing its line limit.
 
 ### Owner info
 
+Each run sends at most one email; its subject sums up the run, e.g.
+`CSF Auto-Group: 2 block bans · 1 suspicious range · 1 temp block ban`.
+
 ```
-185.220.101.0/24 -> 4 permanent singles, permanent ban
+185.220.101.0/24 -> 4 permanent singles, permanent block ban
    Owner: AS60729 ARTIKEL10, DE
    - 185.220.101.12   berlin01.tor-exit.artikel10.org  (sshd) Failed SSH login
    - 185.220.101.47   tor-exit-47.artikel10.org  (smtpauth) Failed SMTP AUTH login
